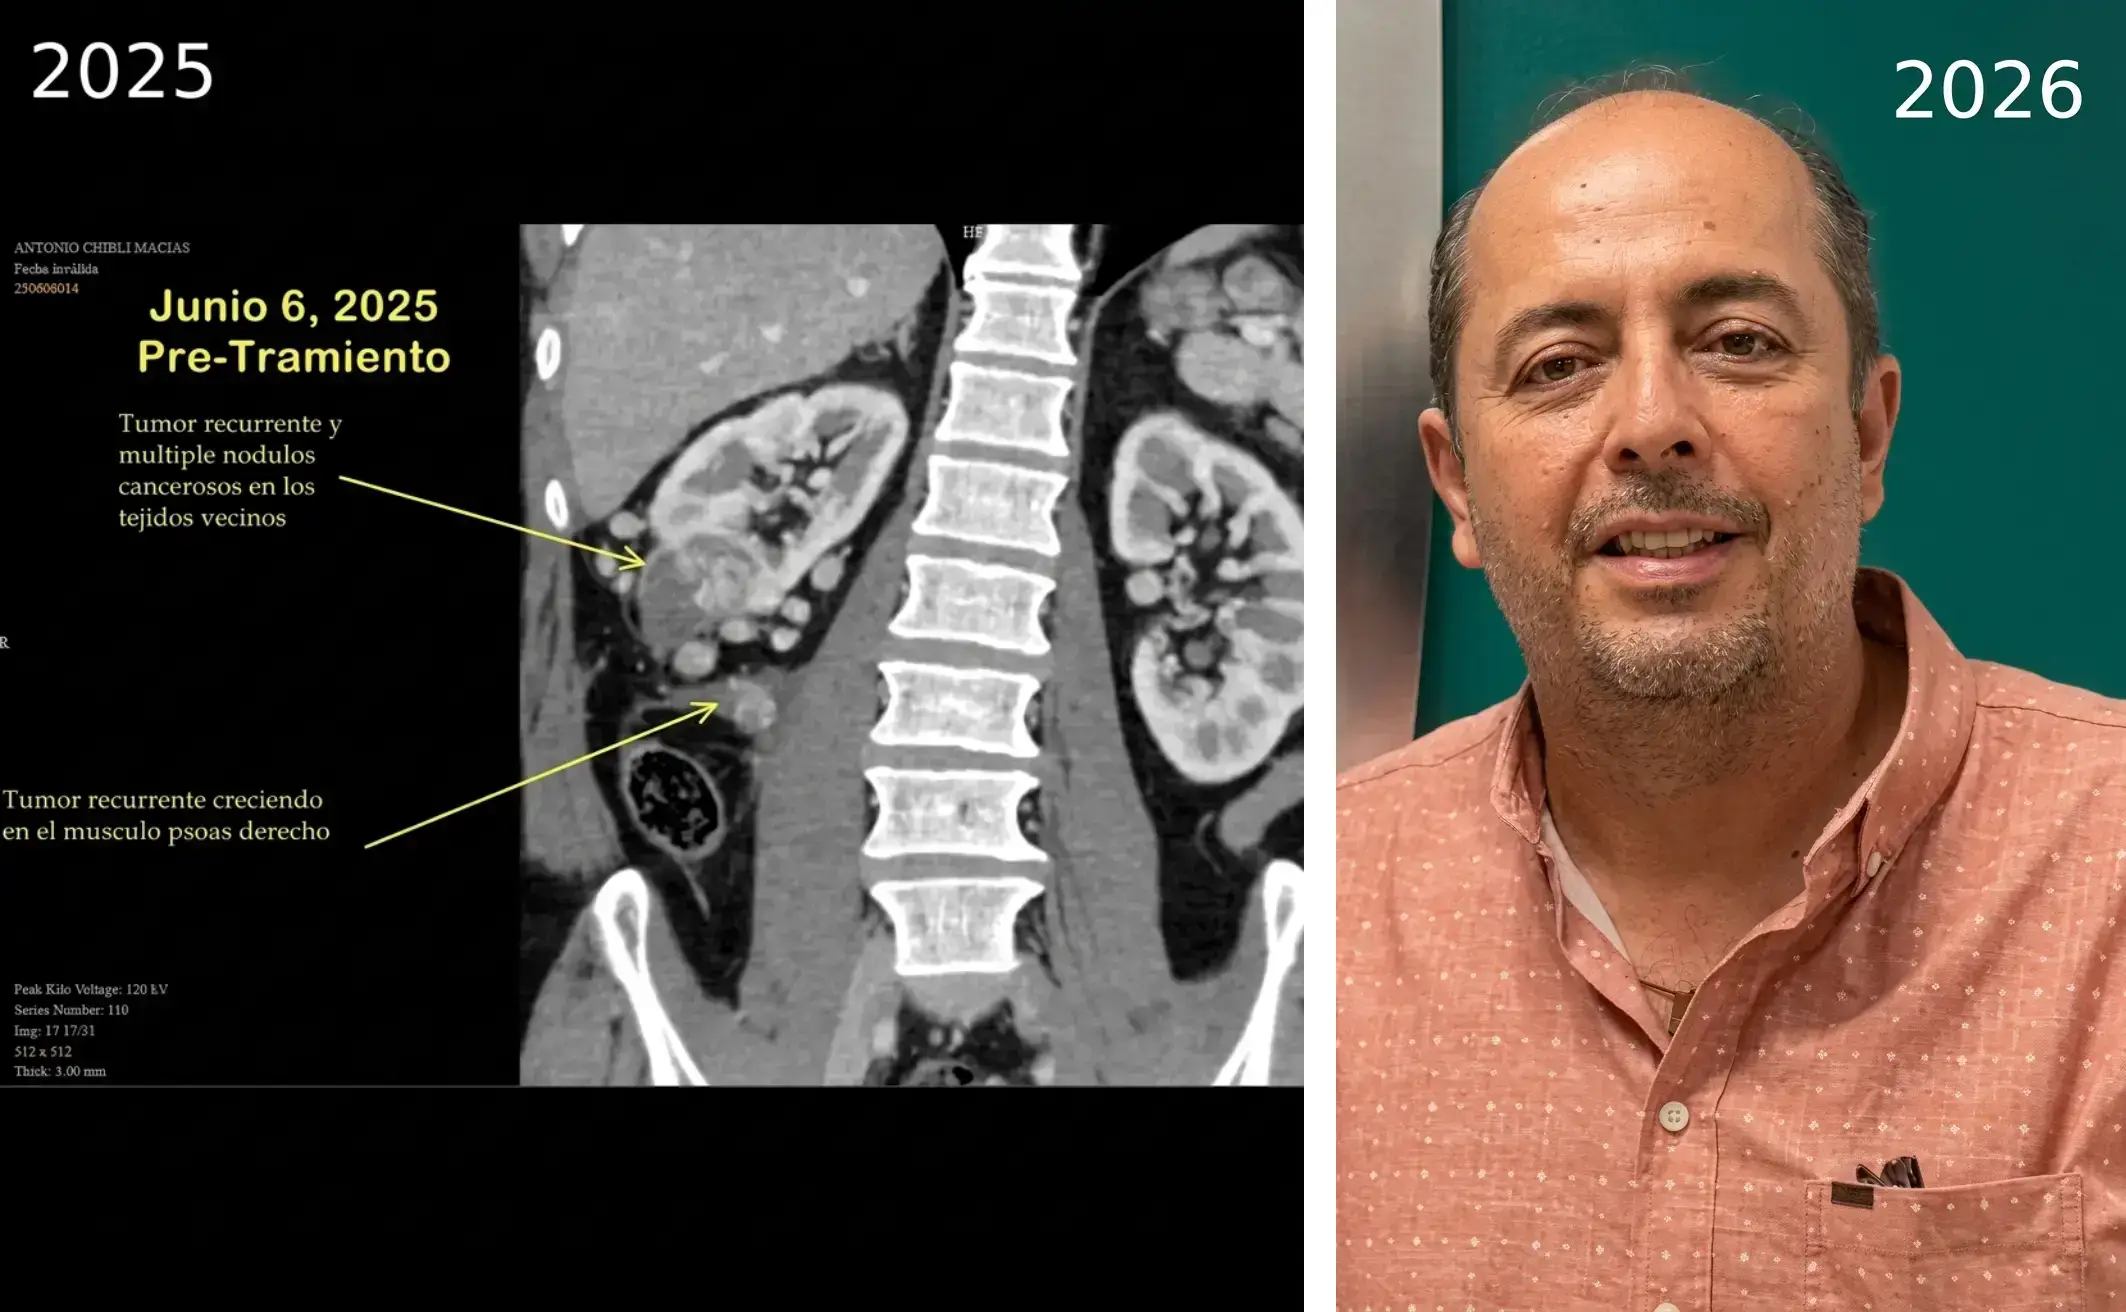
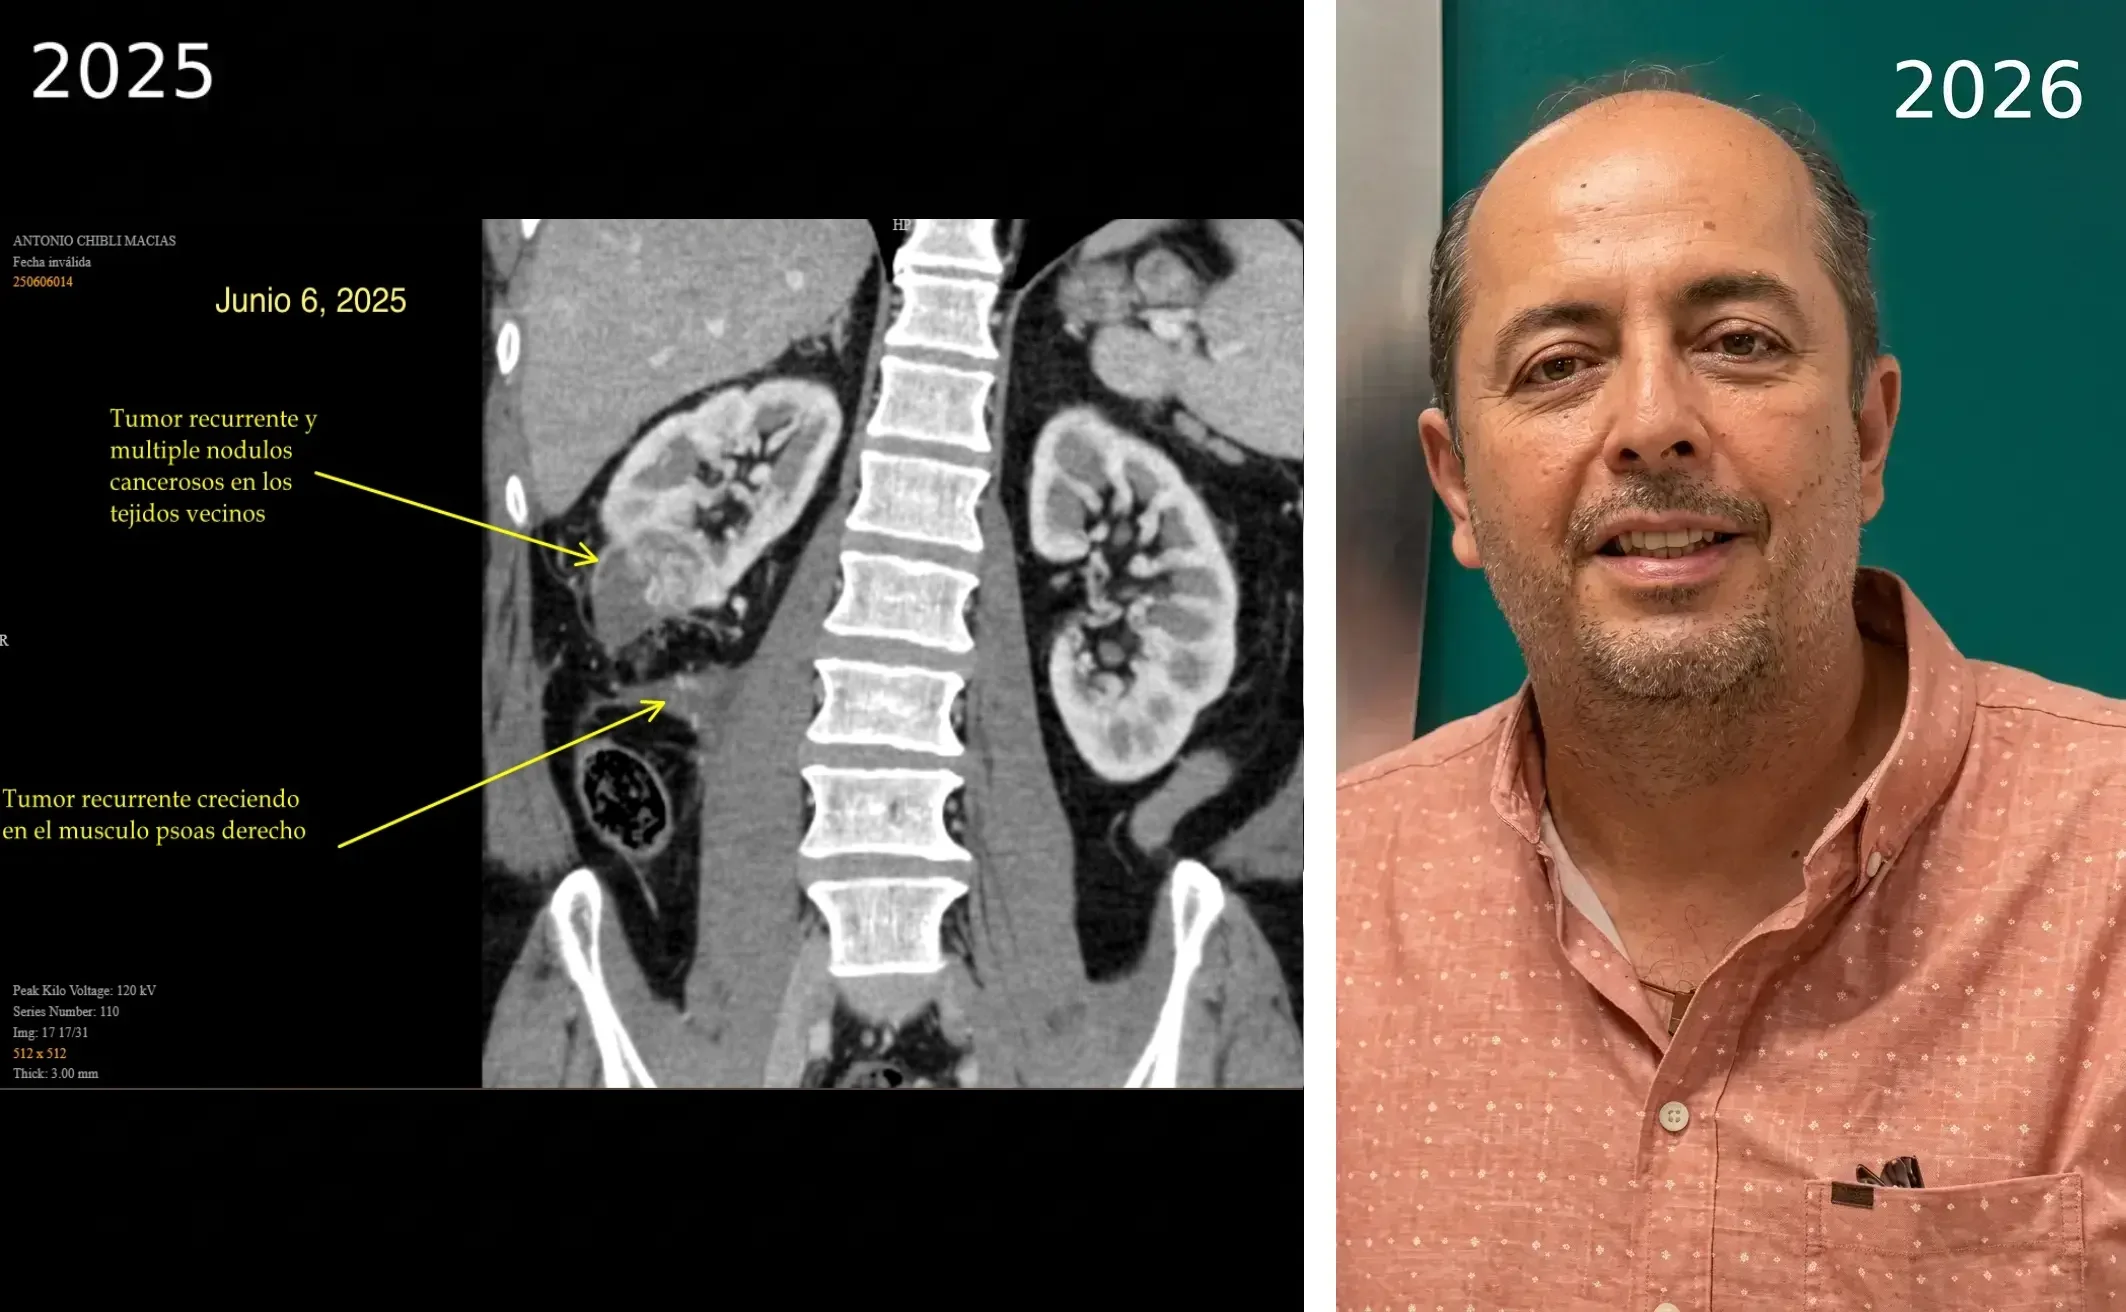
feat: refine carousel and contact content

Changed region(s): [[0.0, 0.1562, 0.6209, 0.8438], [0.031, 0.3125, 0.1863, 0.4062], [0.0, 0.5938, 0.1863, 0.6562]]

diff --git a/src/components/organisms/Carousel.tsx b/src/components/organisms/Carousel.tsx
@@ -12,12 +12,14 @@ type CarouselProps<T> = Readonly<{
   renderItem: (item: T, index: number) => ReactNode;
   ariaLabel: string;
   autoplay?: AutoplayOptions;
+  disableAutoplayOnInteraction?: boolean;
   slidesPerView?: number;
   breakpoints?: Record<number, { slidesPerView: number }>;
   spaceBetween?: number;
   className?: string;
   slideClassName?: string;
   responsiveFallback?: boolean;
+  showControlsOnMobile?: boolean;
   controlLabels?: Readonly<{ previous: string; next: string }>;
 }>;
 
@@ -34,12 +36,14 @@ export default function Carousel<T>({
   renderItem,
   ariaLabel,
   autoplay,
+  disableAutoplayOnInteraction = false,
   slidesPerView = 1,
   breakpoints,
   spaceBetween = 16,
   className = '',
   slideClassName = '',
   responsiveFallback = true,
+  showControlsOnMobile = false,
   controlLabels = { previous: 'Anterior', next: 'Siguiente' },
 }: CarouselProps<T>) {
   const swiperRef = useRef<SwiperInstance | null>(null);
@@ -65,7 +69,7 @@ export default function Carousel<T>({
           }}
           loop={items.length > 1}
           slidesPerGroup={1}
-          autoplay={autoplay ? { delay: autoplay.delay, disableOnInteraction: false, pauseOnMouseEnter: true } : false}
+          autoplay={autoplay ? { delay: autoplay.delay, disableOnInteraction: disableAutoplayOnInteraction, pauseOnMouseEnter: true } : false}
           keyboard={{ enabled: true, onlyInViewport: true }}
           a11y={{ prevSlideMessage: controlLabels.previous, nextSlideMessage: controlLabels.next, firstSlideMessage: 'Primer elemento', lastSlideMessage: 'Último elemento' }}
           slidesPerView={slidesPerView}
@@ -79,10 +83,10 @@ export default function Carousel<T>({
       </div>
       {items.length > 1 && (
         <>
-          <button type="button" className="absolute left-0 top-1/2 z-10 hidden h-20 w-10 -translate-y-1/2 items-center justify-center rounded-l-full bg-[#78235a] pl-1 text-white shadow-[4px_8px_20px_rgba(76,17,57,0.25)] transition hover:w-12 hover:bg-[#631849] focus:outline-none focus:ring-2 focus:ring-[#9a3676] focus:ring-offset-2 lg:-left-8 lg:flex lg:h-24 lg:w-12 xl:-left-12" aria-label={controlLabels.previous} onClick={() => swiperRef.current?.slidePrev()}>
+          <button type="button" className={`absolute z-10 -translate-y-1/2 items-center justify-center bg-[#78235a] text-white shadow-[4px_8px_20px_rgba(76,17,57,0.25)] transition hover:bg-[#631849] focus:outline-none focus:ring-2 focus:ring-[#9a3676] focus:ring-offset-2 ${showControlsOnMobile ? 'top-[19rem] -left-3 flex h-12 w-6 rounded-l-full pl-0.5 sm:top-1/2 sm:-left-2 sm:h-20 sm:w-10 sm:rounded-l-full sm:rounded-r-none sm:pl-1 lg:-left-6 lg:h-24 lg:w-12 xl:-left-12' : 'top-1/2 left-0 hidden h-20 w-10 rounded-l-full pl-1 lg:-left-6 lg:flex lg:h-24 lg:w-12 xl:-left-12'}`} aria-label={controlLabels.previous} onClick={() => swiperRef.current?.slidePrev()}>
             <svg aria-hidden="true" viewBox="0 0 24 24" className="h-5 w-5 fill-none stroke-current stroke-[2.5] sm:h-6 sm:w-6"><path d="m14 5-7 7 7 7" strokeLinecap="round" strokeLinejoin="round" /></svg>
           </button>
-          <button type="button" className="absolute right-0 top-1/2 z-10 hidden h-20 w-10 -translate-y-1/2 items-center justify-center rounded-r-full bg-[#78235a] pr-1 text-white shadow-[-4px_8px_20px_rgba(76,17,57,0.25)] transition hover:w-12 hover:bg-[#631849] focus:outline-none focus:ring-2 focus:ring-[#9a3676] focus:ring-offset-2 lg:-right-8 lg:flex lg:h-24 lg:w-12 xl:-right-12" aria-label={controlLabels.next} onClick={() => swiperRef.current?.slideNext()}>
+          <button type="button" className={`absolute z-10 -translate-y-1/2 items-center justify-center bg-[#78235a] text-white shadow-[-4px_8px_20px_rgba(76,17,57,0.25)] transition hover:bg-[#631849] focus:outline-none focus:ring-2 focus:ring-[#9a3676] focus:ring-offset-2 ${showControlsOnMobile ? 'top-[19rem] -right-3 flex h-12 w-6 rounded-r-full pr-0.5 sm:top-1/2 sm:-right-2 sm:h-20 sm:w-10 sm:rounded-l-none sm:rounded-r-full sm:pr-1 lg:-right-6 lg:h-24 lg:w-12 xl:-right-12' : 'top-1/2 right-0 hidden h-20 w-10 rounded-r-full pr-1 lg:-right-6 lg:flex lg:h-24 lg:w-12 xl:-right-12'}`} aria-label={controlLabels.next} onClick={() => swiperRef.current?.slideNext()}>
             <svg aria-hidden="true" viewBox="0 0 24 24" className="h-5 w-5 fill-none stroke-current stroke-[2.5] sm:h-6 sm:w-6"><path d="m10 5 7 7-7 7" strokeLinecap="round" strokeLinejoin="round" /></svg>
           </button>
         </>

diff --git a/src/components/organisms/TestimonialSlider.tsx b/src/components/organisms/TestimonialSlider.tsx
@@ -18,8 +18,10 @@ export default function TestimonialSlider({ testimonials }: TestimonialSliderPro
     <Carousel
       items={testimonials}
       ariaLabel="Testimonios de pacientes"
-      autoplay={{ delay: 4000, maxWidth: 1024 }}
-      className="max-w-6xl"
+      autoplay={{ delay: 15000, maxWidth: 1024 }}
+      disableAutoplayOnInteraction
+      showControlsOnMobile
+      className="w-[calc(100%-1rem)] max-w-6xl sm:w-full"
       controlLabels={{ previous: 'Testimonio anterior', next: 'Siguiente testimonio' }}
       breakpoints={{ 640: { slidesPerView: 2 }, 1024: { slidesPerView: 3 } }}
       renderItem={(testimonial) => (

diff --git a/src/components/organisms/DedicationCarousel.tsx b/src/components/organisms/DedicationCarousel.tsx
@@ -9,7 +9,7 @@ export default function DedicationCarousel({ slides }: Props) {
     <Carousel
       items={slides}
       ariaLabel="Fotografías de la dedicatoria"
-      autoplay={{ delay: 5000 }}
+      autoplay={{ delay: 8000 }}
       className="max-w-md"
       responsiveFallback={false}
       controlLabels={{ previous: 'Fotografía anterior', next: 'Siguiente fotografía' }}

diff --git a/src/data/site-config.ts b/src/data/site-config.ts
@@ -18,7 +18,7 @@ export const BUSINESS_DATA = {
   contact: {
     phone: '+13013059591',
     phoneDisplay: '+1 (301) 305-9591',
-    email: '',
+    email: 'arguellof@atavisticchemotherapy.com',
     whatsapp: {
       username: {
         label: '+1 (301) 305-9591',
